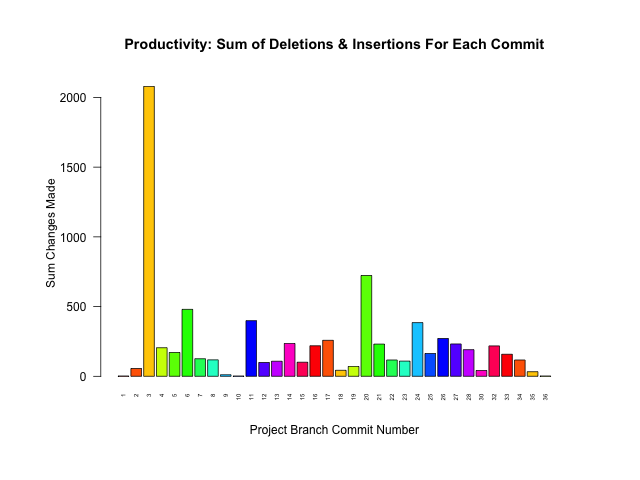
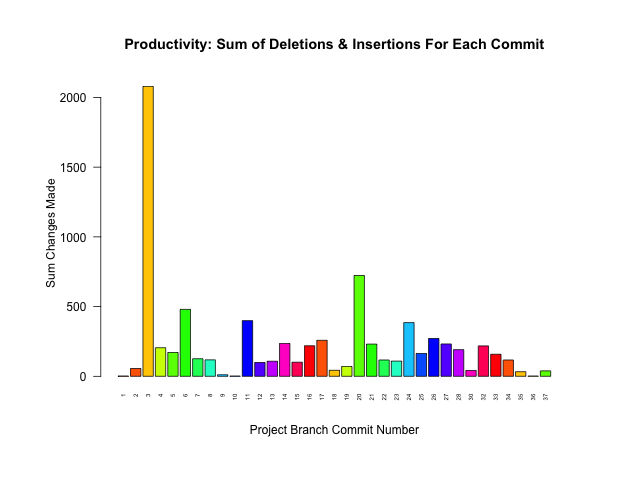
COMMIT #190

Changed region(s): [[0.3438, 0.5625, 0.875, 0.8438], [0.2188, 0.1875, 0.3438, 0.7812]]

diff --git a/README.md b/README.md
@@ -17,12 +17,12 @@ ProjectName::BranchName.data
 
 Project Name | Last Updated | # Commits | # Branches | Branches Merged
 :---|:---:|:---:|:---:|:---:
+[ft_printf](https://github.com/pierremigeon/ft_printf)                                              |  2023-06-01  |  37   |  2  |  100%  (2/2)
 [libft](https://github.com/pierremigeon/libft)                                                      |  2023-05-30  |  28   |  2  |  50%   (1/2)
-[commit_tracker](https://github.com/pierremigeon/commit_tracker)                                    |  2023-05-30  |  188  |  1  |  100%  (1/1)
+[commit_tracker](https://github.com/pierremigeon/commit_tracker)                                    |  2023-05-30  |  189  |  1  |  100%  (1/1)
 [learn_some_C.Plus.Plus](https://github.com/pierremigeon/learn_some_C.Plus.Plus)                    |  2023-05-29  |  28   |  1  |  100%  (1/1)
 [minishell](https://github.com/pierremigeon/minishell)                                              |  2023-05-20  |  78   |  8  |  88%   (7/8)
 [FASTQ_examiner](https://github.com/pierremigeon/FASTQ_examiner)                                    |  2023-05-12  |  68   |  4  |  50%   (2/4)
-[ft_printf](https://github.com/pierremigeon/ft_printf)                                              |  2023-01-27  |  36   |  2  |  100%  (2/2)
 [test_non-fastforward_merge-push](https://github.com/pierremigeon/test_non-fastforward_merge-push)  |  2023-01-27  |  15   |  2  |  50%   (1/2)
 
 [comment]: # (This is where the table ends)
